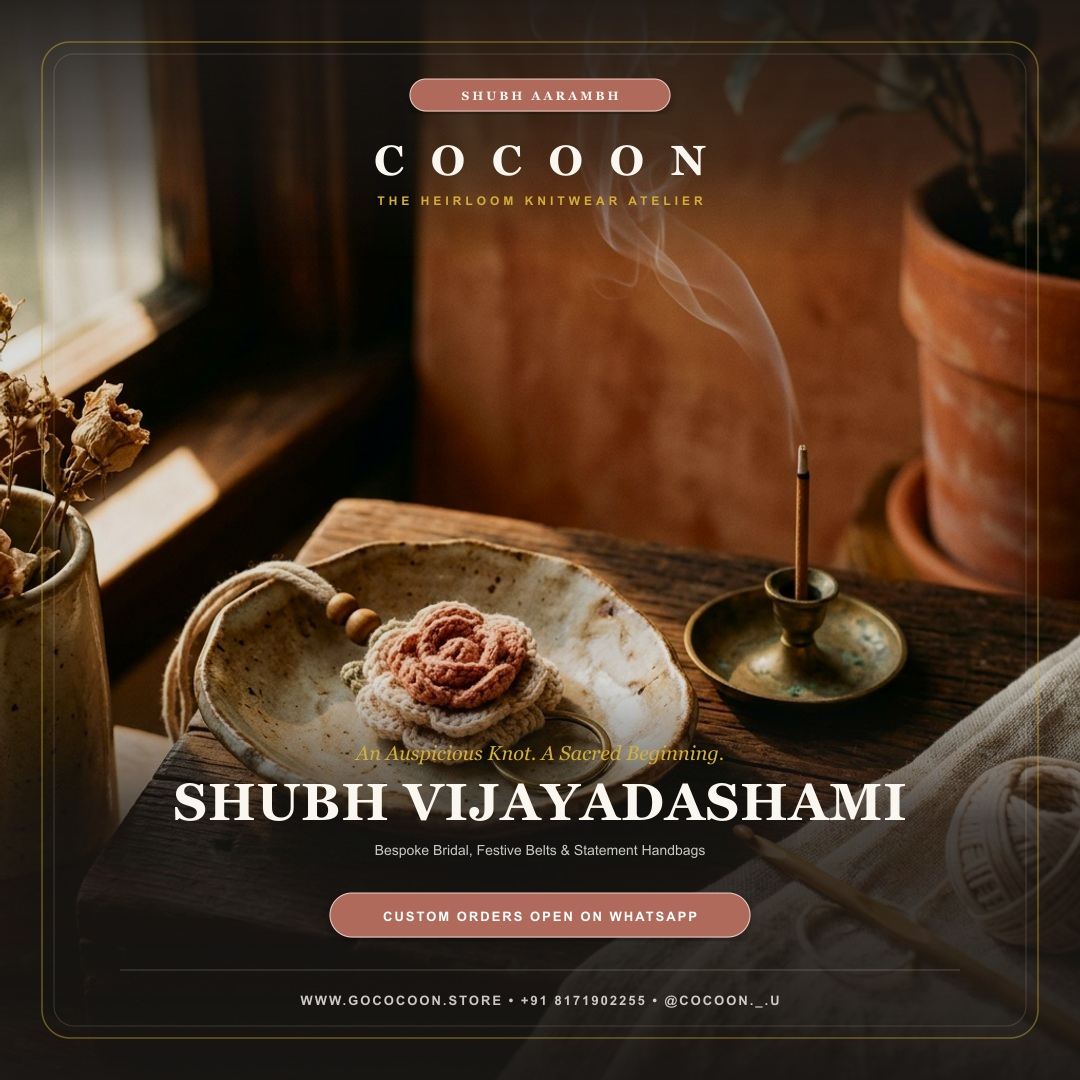
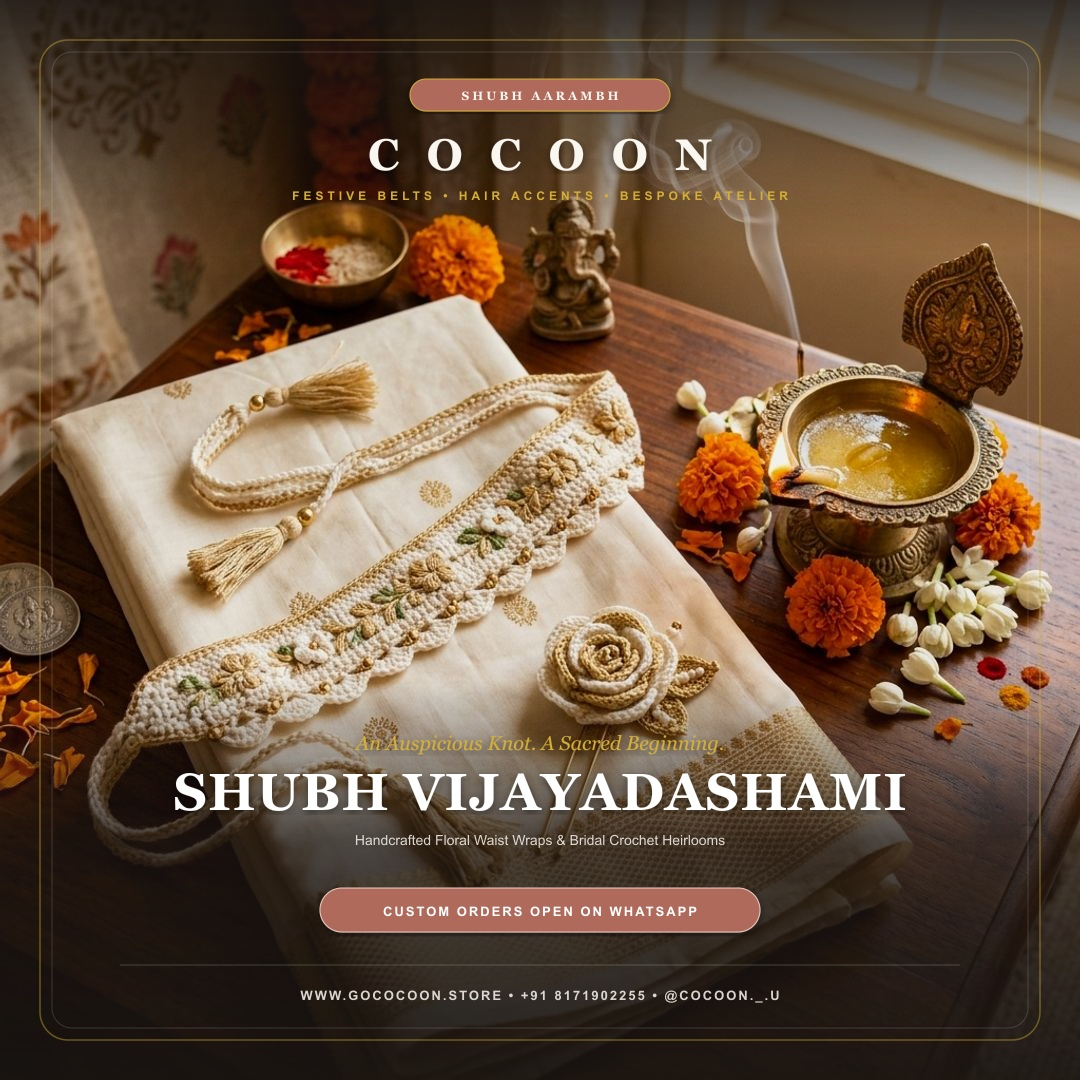
feat(social): update posts with authentic festival visuals and real crochet products

diff --git a/scripts/generate_posts.js b/scripts/generate_posts.js
@@ -9,83 +9,76 @@ if (!fs.existsSync(outDir)) {
   fs.mkdirSync(outDir, { recursive: true });
 }
 
+// 1. DUSSEHRA POST (Ivory Crochet Tote + Brass Diyas + Marigold Garlands)
 async function createDussehraPost() {
-  const photoPath = path.join(brainDir, 'cocoon_dussehra_post_1792430696706.jpg');
+  const photoPath = path.join(brainDir, 'dussehra_crochet_handbag_1792431319804.jpg');
   
-  // Prepare background image (1080x1080 with soft darkened vignette so text pops)
   const bg = await sharp(photoPath)
     .resize(1080, 1080, { fit: 'cover' })
     .modulate({ brightness: 0.95, saturation: 1.05 })
     .toBuffer();
 
-  // Create graphic overlay with luxury branding, festive greetings, discount code & footer
   const svgOverlay = `
   <svg width="1080" height="1080" xmlns="http://www.w3.org/2000/svg">
     <defs>
-      <!-- Gradient for top and bottom readability -->
       <linearGradient id="topShadow" x1="0" y1="0" x2="0" y2="1">
-        <stop offset="0%" stop-color="#FAF6F0" stop-opacity="0.95"/>
-        <stop offset="60%" stop-color="#FAF6F0" stop-opacity="0.7"/>
-        <stop offset="100%" stop-color="#FAF6F0" stop-opacity="0"/>
+        <stop offset="0%" stop-color="#151210" stop-opacity="0.9"/>
+        <stop offset="50%" stop-color="#151210" stop-opacity="0.6"/>
+        <stop offset="100%" stop-color="#151210" stop-opacity="0"/>
       </linearGradient>
       <linearGradient id="bottomShadow" x1="0" y1="0" x2="0" y2="1">
-        <stop offset="0%" stop-color="#FAF6F0" stop-opacity="0"/>
-        <stop offset="40%" stop-color="#FAF6F0" stop-opacity="0.85"/>
-        <stop offset="100%" stop-color="#FAF6F0" stop-opacity="0.98"/>
+        <stop offset="0%" stop-color="#151210" stop-opacity="0"/>
+        <stop offset="40%" stop-color="#151210" stop-opacity="0.75"/>
+        <stop offset="100%" stop-color="#151210" stop-opacity="0.95"/>
       </linearGradient>
-      <filter id="shadow" x="-10%" y="-10%" width="120%" height="120%">
-        <feDropShadow dx="0" dy="4" stdDeviation="6" flood-color="#2C2623" flood-opacity="0.12"/>
+      <filter id="shadow">
+        <feDropShadow dx="0" dy="3" stdDeviation="5" flood-color="#000000" flood-opacity="0.5"/>
       </filter>
     </defs>
 
-    <!-- Top & bottom gradient overlays to ensure text contrast while keeping photo visible -->
-    <rect x="0" y="0" width="1080" height="280" fill="url(#topShadow)"/>
-    <rect x="0" y="700" width="1080" height="380" fill="url(#bottomShadow)"/>
+    <rect x="0" y="0" width="1080" height="260" fill="url(#topShadow)"/>
+    <rect x="0" y="680" width="1080" height="400" fill="url(#bottomShadow)"/>
 
-    <!-- Subtle luxury outer border frame -->
-    <rect x="40" y="40" width="1000" height="1000" rx="32" fill="none" stroke="#2C2623" stroke-width="2" stroke-opacity="0.25"/>
-    <rect x="52" y="52" width="976" height="976" rx="24" fill="none" stroke="#B06B5B" stroke-width="1" stroke-opacity="0.35"/>
+    <!-- Subtle Gold Foil Frame -->
+    <rect x="40" y="40" width="1000" height="1000" rx="28" fill="none" stroke="#D4AF37" stroke-width="1.5" stroke-opacity="0.5"/>
+    <rect x="52" y="52" width="976" height="976" rx="20" fill="none" stroke="#FAF6F0" stroke-width="1" stroke-opacity="0.2"/>
 
-    <!-- TOP SECTION: BRAND & FESTIVE BADGE -->
-    <!-- Pill Badge -->
+    <!-- TOP: BRAND & FESTIVE BADGE -->
     <g transform="translate(540, 95)">
-      <rect x="-140" y="-18" width="280" height="36" rx="18" fill="#FAF0ED" stroke="#ECCEC7" stroke-width="1.5" filter="url(#shadow)"/>
-      <text x="0" y="5" font-family="'Georgia', serif" font-size="13" font-weight="bold" letter-spacing="3" fill="#B06B5B" text-anchor="middle">
+      <rect x="-140" y="-16" width="280" height="32" rx="16" fill="#B06B5B" stroke="#D4AF37" stroke-width="1" filter="url(#shadow)"/>
+      <text x="0" y="5" font-family="'Georgia', serif" font-size="12" font-weight="bold" letter-spacing="3" fill="#FFFFFF" text-anchor="middle">
         VIJAYADASHAMI SPECIAL
       </text>
     </g>
 
-    <!-- Brand Name -->
-    <text x="540" y="180" font-family="'Georgia', 'Times New Roman', serif" font-size="44" font-weight="bold" letter-spacing="8" fill="#2C2623" text-anchor="middle">
+    <text x="540" y="170" font-family="'Georgia', serif" font-size="44" font-weight="bold" letter-spacing="8" fill="#FAF6F0" text-anchor="middle" filter="url(#shadow)">
       C O C O O N
     </text>
-    <text x="540" y="212" font-family="'Arial', sans-serif" font-size="12" font-weight="bold" letter-spacing="4" fill="#8B5E3C" text-anchor="middle">
-      HANDCRAFTED CROCHET BOUTIQUE
+    <text x="540" y="202" font-family="'Arial', sans-serif" font-size="12" font-weight="bold" letter-spacing="4" fill="#D4AF37" text-anchor="middle">
+      100% ORGANIC MILK COTTON CROCHET
     </text>
 
-    <!-- BOTTOM SECTION: HEADLINE, OFFER & CTA -->
-    <!-- Festive Headline -->
-    <text x="540" y="775" font-family="'Georgia', serif" font-size="20" font-style="italic" fill="#8B5E3C" text-anchor="middle">
-      Celebrate The Triumph Of Pure Craft
+    <!-- BOTTOM: HEADLINE, OFFER & CTA -->
+    <text x="540" y="750" font-family="'Georgia', serif" font-size="20" font-style="italic" fill="#D4AF37" text-anchor="middle" filter="url(#shadow)">
+      Celebrate The Triumph Of Mindful Craft
     </text>
-    <text x="540" y="830" font-family="'Georgia', serif" font-size="52" font-weight="bold" letter-spacing="1" fill="#2C2623" text-anchor="middle">
+    <text x="540" y="810" font-family="'Georgia', serif" font-size="52" font-weight="bold" letter-spacing="1" fill="#FFFFFF" text-anchor="middle" filter="url(#shadow)">
       HAPPY DUSSEHRA
     </text>
-    <text x="540" y="865" font-family="'Arial', sans-serif" font-size="14" font-weight="bold" letter-spacing="1" fill="#2C2623" fill-opacity="0.75" text-anchor="middle">
-      100% Pure Organic Milk Cotton • Handcrafted Knot-by-Knot in India
+    <text x="540" y="845" font-family="'Arial', sans-serif" font-size="14" fill="#FAF6F0" fill-opacity="0.85" text-anchor="middle">
+      Handcrafted Knot-by-Knot in India • Pure Heirloom Bags &amp; Totes
     </text>
 
-    <!-- Festive Discount Tag Box -->
-    <g transform="translate(540, 925)">
-      <rect x="-240" y="-22" width="480" height="44" rx="22" fill="#2C2623" filter="url(#shadow)"/>
-      <text x="0" y="6" font-family="'Arial', sans-serif" font-size="14" font-weight="bold" letter-spacing="2" fill="#FFFFFF" text-anchor="middle">
+    <!-- DISCOUNT PILL BUTTON -->
+    <g transform="translate(540, 910)">
+      <rect x="-240" y="-22" width="480" height="44" rx="22" fill="#FAF6F0" filter="url(#shadow)"/>
+      <text x="0" y="6" font-family="'Arial', sans-serif" font-size="14" font-weight="bold" letter-spacing="2" fill="#2C2623" text-anchor="middle">
         USE CODE: FESTIVE10 FOR 10% OFF
       </text>
     </g>
 
-    <!-- Footer Bar -->
-    <line x1="120" y1="975" x2="960" y2="975" stroke="#2C2623" stroke-width="1" stroke-opacity="0.15"/>
-    <text x="540" y="1005" font-family="'Arial', sans-serif" font-size="13" font-weight="bold" letter-spacing="2" fill="#2C2623" fill-opacity="0.8" text-anchor="middle">
+    <line x1="120" y1="965" x2="960" y2="965" stroke="#FFFFFF" stroke-width="1" stroke-opacity="0.2"/>
+    <text x="540" y="1000" font-family="'Arial', sans-serif" font-size="13" font-weight="bold" letter-spacing="2" fill="#FAF6F0" fill-opacity="0.85" text-anchor="middle">
       WWW.GOCOCOON.STORE  •  @COCOON._.U  •  COD AVAILABLE
     </text>
   </svg>
@@ -99,76 +92,75 @@ async function createDussehraPost() {
   console.log('Dussehra post created successfully!');
 }
 
+// 2. DASHAMI POST (Crochet Floral Waist Belt & Rose Pin + Brass Diya & Saree)
 async function createDashamiPost() {
-  const photoPath = path.join(brainDir, 'cocoon_vijayadashami_post_1792430716725.jpg');
+  const photoPath = path.join(brainDir, 'cocoon_shubh_aarambh_accessories_1792431235623.jpg');
 
-  // Prepare dark luxury mood (1080x1080)
   const bg = await sharp(photoPath)
     .resize(1080, 1080, { fit: 'cover' })
-    .modulate({ brightness: 0.88, saturation: 1.1 })
+    .modulate({ brightness: 0.95, saturation: 1.05 })
     .toBuffer();
 
   const svgOverlay = `
   <svg width="1080" height="1080" xmlns="http://www.w3.org/2000/svg">
     <defs>
-      <linearGradient id="darkTop" x1="0" y1="0" x2="0" y2="1">
-        <stop offset="0%" stop-color="#1A1715" stop-opacity="0.92"/>
-        <stop offset="60%" stop-color="#1A1715" stop-opacity="0.6"/>
-        <stop offset="100%" stop-color="#1A1715" stop-opacity="0"/>
+      <linearGradient id="topGrad" x1="0" y1="0" x2="0" y2="1">
+        <stop offset="0%" stop-color="#1A1512" stop-opacity="0.88"/>
+        <stop offset="55%" stop-color="#1A1512" stop-opacity="0.5"/>
+        <stop offset="100%" stop-color="#1A1512" stop-opacity="0"/>
       </linearGradient>
-      <linearGradient id="darkBottom" x1="0" y1="0" x2="0" y2="1">
-        <stop offset="0%" stop-color="#1A1715" stop-opacity="0"/>
-        <stop offset="35%" stop-color="#1A1715" stop-opacity="0.75"/>
-        <stop offset="100%" stop-color="#1A1715" stop-opacity="0.95"/>
+      <linearGradient id="bottomGrad" x1="0" y1="0" x2="0" y2="1">
+        <stop offset="0%" stop-color="#1A1512" stop-opacity="0"/>
+        <stop offset="40%" stop-color="#1A1512" stop-opacity="0.75"/>
+        <stop offset="100%" stop-color="#1A1512" stop-opacity="0.95"/>
       </linearGradient>
-      <filter id="goldShadow">
-        <feDropShadow dx="0" dy="3" stdDeviation="5" flood-color="#000000" flood-opacity="0.4"/>
+      <filter id="shadowDark">
+        <feDropShadow dx="0" dy="3" stdDeviation="5" flood-color="#000000" flood-opacity="0.5"/>
       </filter>
     </defs>
 
-    <rect x="0" y="0" width="1080" height="260" fill="url(#darkTop)"/>
-    <rect x="0" y="680" width="1080" height="400" fill="url(#darkBottom)"/>
+    <rect x="0" y="0" width="1080" height="250" fill="url(#topGrad)"/>
+    <rect x="0" y="680" width="1080" height="400" fill="url(#bottomGrad)"/>
 
-    <!-- Subtle Gold Foil Border -->
-    <rect x="42" y="42" width="996" height="996" rx="28" fill="none" stroke="#D4AF37" stroke-width="1.5" stroke-opacity="0.45"/>
-    <rect x="54" y="54" width="972" height="972" rx="20" fill="none" stroke="#FAF6F0" stroke-width="1" stroke-opacity="0.15"/>
+    <rect x="40" y="40" width="1000" height="1000" rx="28" fill="none" stroke="#D4AF37" stroke-width="1.5" stroke-opacity="0.45"/>
+    <rect x="52" y="52" width="976" height="976" rx="20" fill="none" stroke="#FFFFFF" stroke-width="1" stroke-opacity="0.15"/>
 
     <!-- TOP SECTION -->
     <g transform="translate(540, 95)">
-      <rect x="-130" y="-16" width="260" height="32" rx="16" fill="#B06B5B" stroke="#ECCEC7" stroke-width="1" filter="url(#goldShadow)"/>
+      <rect x="-130" y="-16" width="260" height="32" rx="16" fill="#B06B5B" stroke="#D4AF37" stroke-width="1" filter="url(#shadowDark)"/>
       <text x="0" y="5" font-family="'Georgia', serif" font-size="12" font-weight="bold" letter-spacing="3" fill="#FAF6F0" text-anchor="middle">
         SHUBH AARAMBH
       </text>
     </g>
 
-    <text x="540" y="175" font-family="'Georgia', serif" font-size="42" font-weight="bold" letter-spacing="8" fill="#FAF6F0" text-anchor="middle">
+    <text x="540" y="170" font-family="'Georgia', serif" font-size="44" font-weight="bold" letter-spacing="8" fill="#FAF6F0" text-anchor="middle" filter="url(#shadowDark)">
       C O C O O N
     </text>
-    <text x="540" y="205" font-family="'Arial', sans-serif" font-size="12" font-weight="bold" letter-spacing="4" fill="#D4AF37" text-anchor="middle">
-      THE HEIRLOOM KNITWEAR ATELIER
+    <text x="540" y="200" font-family="'Arial', sans-serif" font-size="12" font-weight="bold" letter-spacing="4" fill="#D4AF37" text-anchor="middle">
+      FESTIVE BELTS • HAIR ACCENTS • BESPOKE ATELIER
     </text>
 
     <!-- BOTTOM SECTION -->
-    <text x="540" y="760" font-family="'Georgia', serif" font-size="20" font-style="italic" fill="#D4AF37" text-anchor="middle">
+    <text x="540" y="750" font-family="'Georgia', serif" font-size="20" font-style="italic" fill="#D4AF37" text-anchor="middle" filter="url(#shadowDark)">
       An Auspicious Knot. A Sacred Beginning.
     </text>
-    <text x="540" y="820" font-family="'Georgia', serif" font-size="52" font-weight="bold" letter-spacing="1" fill="#FAF6F0" text-anchor="middle">
+    <text x="540" y="810" font-family="'Georgia', serif" font-size="52" font-weight="bold" letter-spacing="1" fill="#FFFFFF" text-anchor="middle" filter="url(#shadowDark)">
       SHUBH VIJAYADASHAMI
     </text>
-    <text x="540" y="855" font-family="'Arial', sans-serif" font-size="14" fill="#FAF6F0" fill-opacity="0.8" text-anchor="middle">
-      Bespoke Bridal, Festive Belts &amp; Statement Handbags
+    <text x="540" y="845" font-family="'Arial', sans-serif" font-size="14" fill="#FAF6F0" fill-opacity="0.85" text-anchor="middle">
+      Handcrafted Floral Waist Wraps &amp; Bridal Crochet Heirlooms
     </text>
 
-    <!-- CTA Button -->
-    <g transform="translate(540, 915)">
-      <rect x="-210" y="-22" width="420" height="44" rx="22" fill="#B06B5B" stroke="#ECCEC7" stroke-width="1" filter="url(#goldShadow)"/>
+    <!-- CTA BUTTON -->
+    <g transform="translate(540, 910)">
+      <rect x="-220" y="-22" width="440" height="44" rx="22" fill="#B06B5B" stroke="#ECCEC7" stroke-width="1" filter="url(#shadowDark)"/>
       <text x="0" y="6" font-family="'Arial', sans-serif" font-size="13" font-weight="bold" letter-spacing="2" fill="#FFFFFF" text-anchor="middle">
         CUSTOM ORDERS OPEN ON WHATSAPP
       </text>
     </g>
 
-    <line x1="120" y1="970" x2="960" y2="970" stroke="#FFFFFF" stroke-width="1" stroke-opacity="0.2"/>
-    <text x="540" y="1005" font-family="'Arial', sans-serif" font-size="13" font-weight="bold" letter-spacing="2" fill="#FAF6F0" fill-opacity="0.8" text-anchor="middle">
+    <line x1="120" y1="965" x2="960" y2="965" stroke="#FFFFFF" stroke-width="1" stroke-opacity="0.2"/>
+    <text x="540" y="1000" font-family="'Arial', sans-serif" font-size="13" font-weight="bold" letter-spacing="2" fill="#FAF6F0" fill-opacity="0.85" text-anchor="middle">
       WWW.GOCOCOON.STORE  •  +91 8171902255  •  @COCOON._.U
     </text>
   </svg>
@@ -182,75 +174,76 @@ async function createDashamiPost() {
   console.log('Dashami post created successfully!');
 }
 
+// 3. WEBSITE LAUNCH POST (Festive Collection Lineup + Fairy Lights & Marigolds)
 async function createWebsiteLaunchPost() {
-  const photoPath = path.join(brainDir, 'cocoon_website_launch_post_1792430736406.jpg');
+  const photoPath = path.join(brainDir, 'cocoon_festive_collection_launch_1792431255051.jpg');
 
   const bg = await sharp(photoPath)
     .resize(1080, 1080, { fit: 'cover' })
-    .modulate({ brightness: 0.94, saturation: 1.05 })
+    .modulate({ brightness: 0.95, saturation: 1.05 })
     .toBuffer();
 
   const svgOverlay = `
   <svg width="1080" height="1080" xmlns="http://www.w3.org/2000/svg">
     <defs>
       <linearGradient id="launchTop" x1="0" y1="0" x2="0" y2="1">
-        <stop offset="0%" stop-color="#FAF6F0" stop-opacity="0.96"/>
-        <stop offset="50%" stop-color="#FAF6F0" stop-opacity="0.8"/>
-        <stop offset="100%" stop-color="#FAF6F0" stop-opacity="0"/>
+        <stop offset="0%" stop-color="#181412" stop-opacity="0.9"/>
+        <stop offset="55%" stop-color="#181412" stop-opacity="0.55"/>
+        <stop offset="100%" stop-color="#181412" stop-opacity="0"/>
       </linearGradient>
       <linearGradient id="launchBottom" x1="0" y1="0" x2="0" y2="1">
-        <stop offset="0%" stop-color="#FAF6F0" stop-opacity="0"/>
-        <stop offset="30%" stop-color="#FAF6F0" stop-opacity="0.88"/>
-        <stop offset="100%" stop-color="#FAF6F0" stop-opacity="0.98"/>
+        <stop offset="0%" stop-color="#181412" stop-opacity="0"/>
+        <stop offset="35%" stop-color="#181412" stop-opacity="0.75"/>
+        <stop offset="100%" stop-color="#181412" stop-opacity="0.95"/>
       </linearGradient>
-      <filter id="softShadow">
-        <feDropShadow dx="0" dy="4" stdDeviation="6" flood-color="#2C2623" flood-opacity="0.14"/>
+      <filter id="shadowLaunch">
+        <feDropShadow dx="0" dy="3" stdDeviation="5" flood-color="#000000" flood-opacity="0.5"/>
       </filter>
     </defs>
 
-    <rect x="0" y="0" width="1080" height="290" fill="url(#launchTop)"/>
+    <rect x="0" y="0" width="1080" height="260" fill="url(#launchTop)"/>
     <rect x="0" y="680" width="1080" height="400" fill="url(#launchBottom)"/>
 
-    <rect x="40" y="40" width="1000" height="1000" rx="32" fill="none" stroke="#2C2623" stroke-width="2" stroke-opacity="0.25"/>
-    <rect x="52" y="52" width="976" height="976" rx="24" fill="none" stroke="#B06B5B" stroke-width="1" stroke-opacity="0.35"/>
+    <rect x="40" y="40" width="1000" height="1000" rx="28" fill="none" stroke="#D4AF37" stroke-width="1.5" stroke-opacity="0.45"/>
+    <rect x="52" y="52" width="976" height="976" rx="20" fill="none" stroke="#FFFFFF" stroke-width="1" stroke-opacity="0.15"/>
 
     <!-- TOP SECTION -->
     <g transform="translate(540, 95)">
-      <rect x="-160" y="-18" width="320" height="36" rx="18" fill="#FAF0ED" stroke="#ECCEC7" stroke-width="1.5" filter="url(#softShadow)"/>
+      <rect x="-160" y="-16" width="320" height="32" rx="16" fill="#FAF0ED" stroke="#ECCEC7" stroke-width="1" filter="url(#shadowLaunch)"/>
       <text x="0" y="5" font-family="'Georgia', serif" font-size="12" font-weight="bold" letter-spacing="3" fill="#B06B5B" text-anchor="middle">
-        OFFICIAL LAUNCH ANNOUNCEMENT
+        OFFICIAL BOUTIQUE LAUNCH
       </text>
     </g>
 
-    <text x="540" y="175" font-family="'Georgia', serif" font-size="44" font-weight="bold" letter-spacing="8" fill="#2C2623" text-anchor="middle">
+    <text x="540" y="170" font-family="'Georgia', serif" font-size="44" font-weight="bold" letter-spacing="8" fill="#FAF6F0" text-anchor="middle" filter="url(#shadowLaunch)">
       C O C O O N
     </text>
-    <text x="540" y="208" font-family="'Arial', sans-serif" font-size="12" font-weight="bold" letter-spacing="4" fill="#8B5E3C" text-anchor="middle">
-      ORGANIC MILK COTTON CROCHET
+    <text x="540" y="200" font-family="'Arial', sans-serif" font-size="12" font-weight="bold" letter-spacing="4" fill="#D4AF37" text-anchor="middle">
+      100% ORGANIC MILK COTTON KNITWEAR
     </text>
 
     <!-- BOTTOM HERO ANNOUNCEMENT -->
-    <text x="540" y="755" font-family="'Georgia', serif" font-size="22" font-style="italic" fill="#8B5E3C" text-anchor="middle">
-      Our Online Atelier Is Officially Open
+    <text x="540" y="745" font-family="'Georgia', serif" font-size="20" font-style="italic" fill="#D4AF37" text-anchor="middle" filter="url(#shadowLaunch)">
+      Our Festive Drops Are Now Live Online
     </text>
-    <text x="540" y="820" font-family="'Georgia', serif" font-size="58" font-weight="bold" letter-spacing="2" fill="#2C2623" text-anchor="middle">
+    <text x="540" y="805" font-family="'Georgia', serif" font-size="56" font-weight="bold" letter-spacing="2" fill="#FFFFFF" text-anchor="middle" filter="url(#shadowLaunch)">
       WE ARE LIVE!
     </text>
-    <text x="540" y="855" font-family="'Arial', sans-serif" font-size="14" font-weight="bold" letter-spacing="1" fill="#2C2623" fill-opacity="0.75" text-anchor="middle">
-      Bags • Totes • Bandanas • Waist Belts • Hair Accessories
+    <text x="540" y="842" font-family="'Arial', sans-serif" font-size="14" fill="#FAF6F0" fill-opacity="0.85" text-anchor="middle">
+      Handbags • Floral Bandanas • Bow Scrunchies • Waist Belts
     </text>
 
     <!-- BIG CTA BUTTON -->
-    <g transform="translate(540, 915)">
-      <rect x="-240" y="-24" width="480" height="48" rx="24" fill="#2C2623" filter="url(#softShadow)"/>
-      <text x="0" y="6" font-family="'Arial', sans-serif" font-size="15" font-weight="bold" letter-spacing="2" fill="#FFFFFF" text-anchor="middle">
+    <g transform="translate(540, 908)">
+      <rect x="-240" y="-23" width="480" height="46" rx="23" fill="#FAF6F0" filter="url(#shadowLaunch)"/>
+      <text x="0" y="6" font-family="'Arial', sans-serif" font-size="15" font-weight="bold" letter-spacing="2" fill="#2C2623" text-anchor="middle">
         SHOP AT WWW.GOCOCOON.STORE
       </text>
     </g>
 
-    <line x1="120" y1="975" x2="960" y2="975" stroke="#2C2623" stroke-width="1" stroke-opacity="0.15"/>
-    <text x="540" y="1008" font-family="'Arial', sans-serif" font-size="12" font-weight="bold" letter-spacing="2" fill="#2C2623" fill-opacity="0.8" text-anchor="middle">
-      PAN-INDIA EXPRESS DELIVERY  •  CASH ON DELIVERY  •  LINK IN BIO
+    <line x1="120" y1="965" x2="960" y2="965" stroke="#FFFFFF" stroke-width="1" stroke-opacity="0.2"/>
+    <text x="540" y="1000" font-family="'Arial', sans-serif" font-size="12" font-weight="bold" letter-spacing="2" fill="#FAF6F0" fill-opacity="0.85" text-anchor="middle">
+      ALL-INDIA EXPRESS DELIVERY  •  CASH ON DELIVERY  •  LINK IN BIO
     </text>
   </svg>
   `;
@@ -267,7 +260,7 @@ async function main() {
   await createDussehraPost();
   await createDashamiPost();
   await createWebsiteLaunchPost();
-  console.log('All 3 graphic posts generated successfully!');
+  console.log('All 3 updated festive product posts generated successfully!');
 }
 
 main().catch(console.error);
